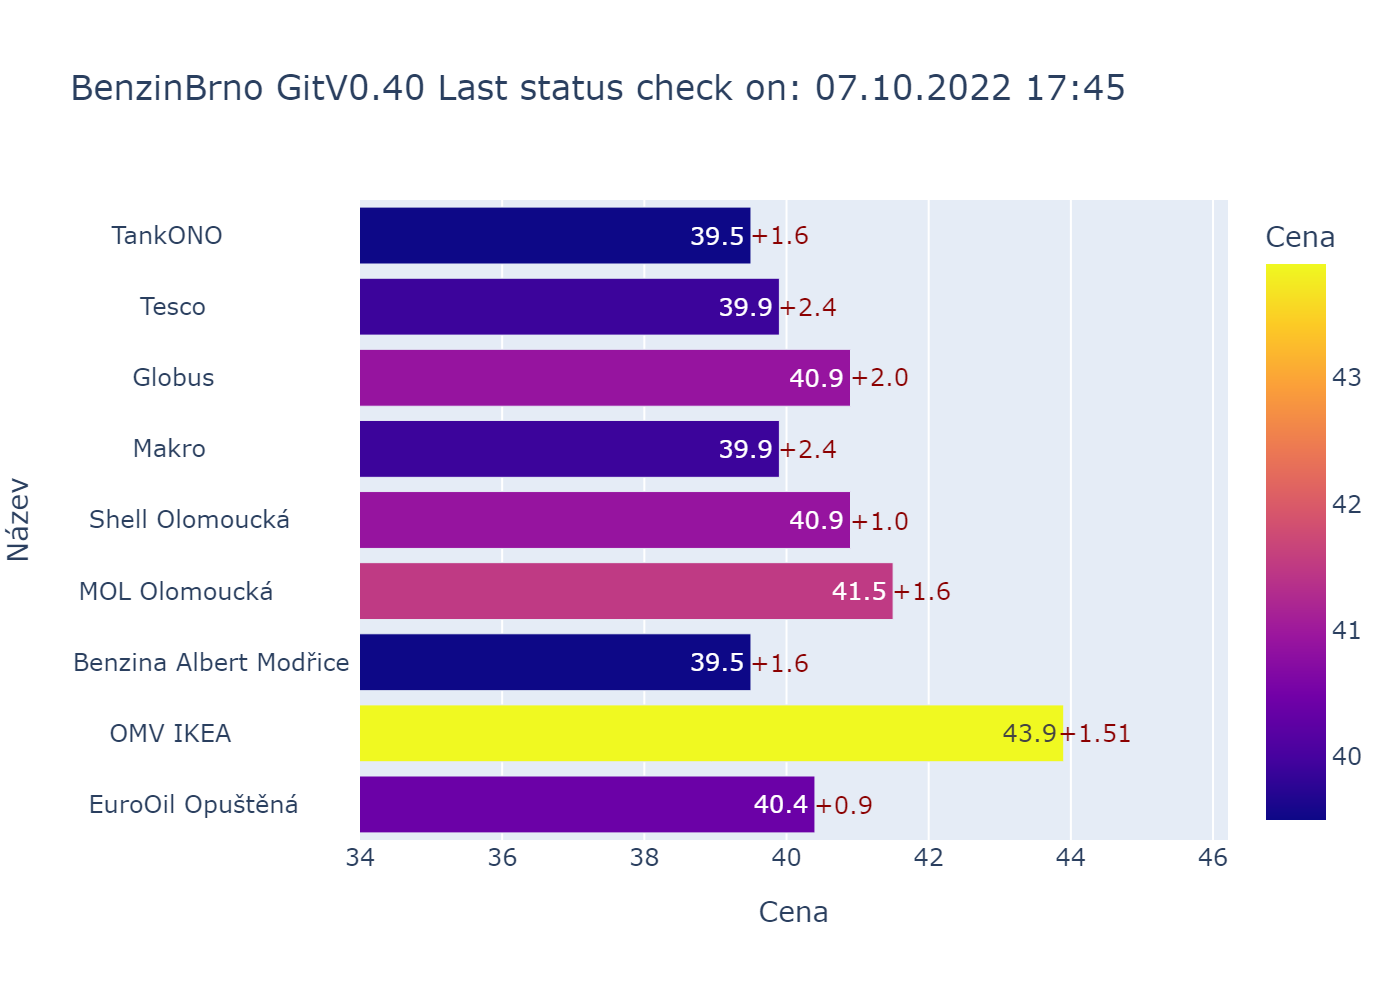
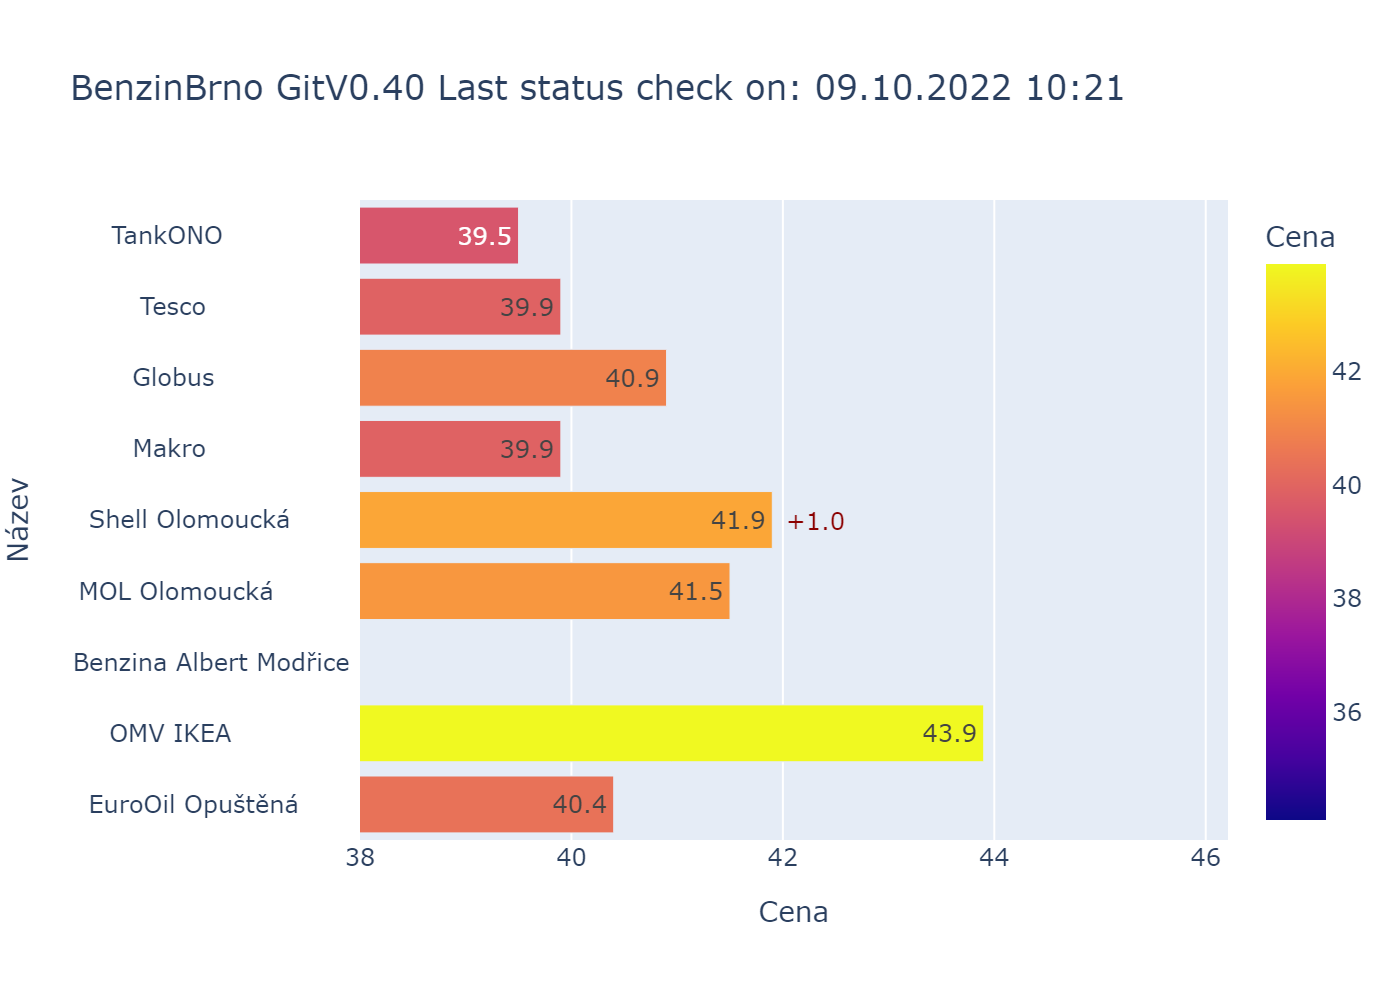
Win cmd line

diff --git a/bbCFG.py b/bbCFG.py
@@ -32,7 +32,7 @@ bbDateLog = "%d.%m.%Y--%H:%M"  # format casu
 # Formatovani Ceny (float) - Cena = '{:.2f}'.format(item)
 bbCenaMsk = '{:.2f}'  # format na 2 desetinna mista
 # Graf
-bbCenaMin = 34  # dolni mez ceny na ose X v grafu
+bbCenaMin = 38  # dolni mez ceny na ose X v grafu
 
 # brint - my print, pomoci *ssAll
 def brint(*ssAll):
